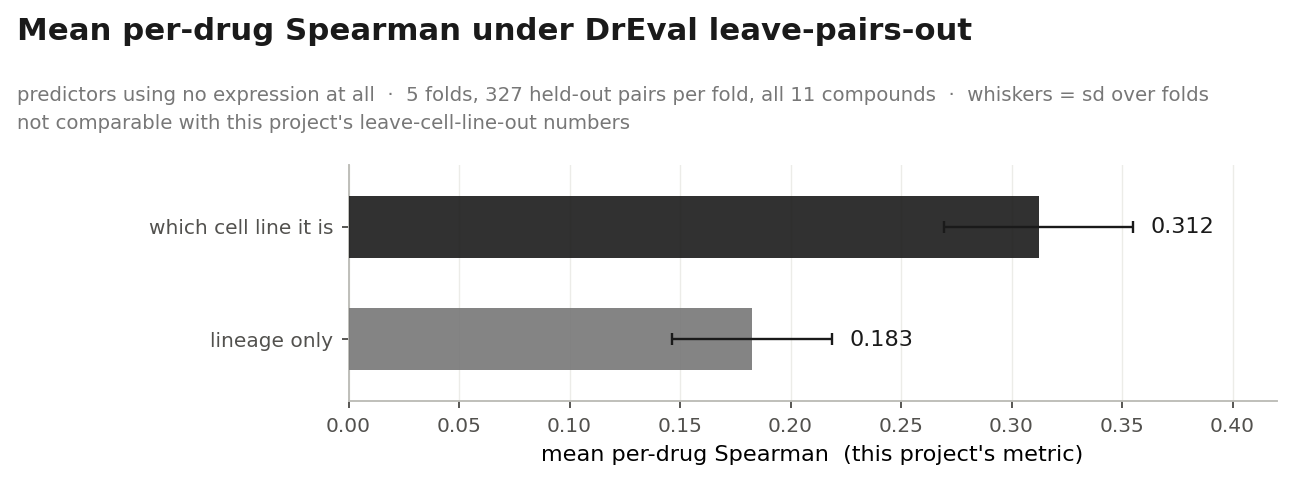
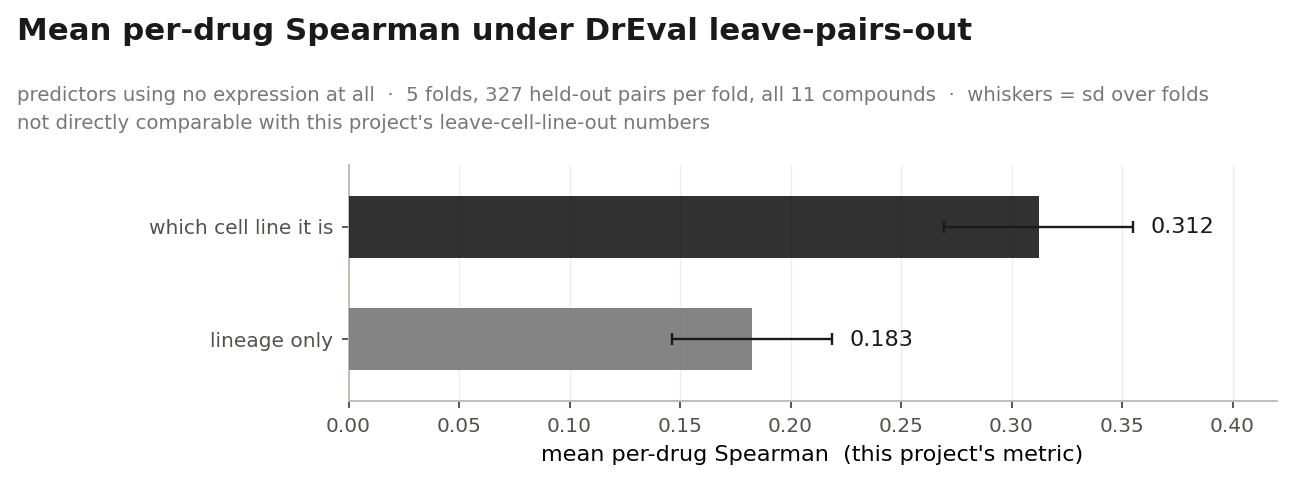
report: restructured discussion

Changed region(s): [[0.0309, 0.2178, 0.5568, 0.2801]]

diff --git a/report/sections/04_results_and_discussion.tex b/report/sections/04_results_and_discussion.tex
@@ -1,8 +1,8 @@
 \chapter{Results and Discussion}
 \label{sec:results}
 
-The results are reported and discussed per research question, each section closing with its
-discussion and the limitations that bound it. Unless stated otherwise, a score is the mean
+The results are reported and discussed per research question. Each section opens with its question,
+reports the results and closes with their discussion. Unless stated otherwise, a score is the mean
 within-compound Spearman correlation of Equation~\ref{eq:metric}, out of fold over held-out cell lines,
 averaged over the \NPanel{} panel compounds and three seeds \cite{spearman1904,dreval}.
 % ; each value is
@@ -13,7 +13,13 @@ averaged over the \NPanel{} panel compounds and three seeds \cite{spearman1904,d
 \label{sec:rd-q1}
 
 The first question was whether drug response can be predicted from single cells when every label is a
-bulk measurement.
+bulk measurement. If the expression of a line's cells carries information about its response, a per-cell
+model trained on these labels should rank held-out lines within each compound better than chance and, if
+single-cell resolution matters, better than a model of the line means. This was tested by scoring the six
+configurations out of fold, against a ridge regression on cell-line means, against DrEval's baselines
+and on the unselected catalogue, and by measuring how much of the score reflects label quality and
+general cell-line fragility.
+
 Figure~\ref{fig:panelresponse} shows the label itself, the refitted AUC of each panel compound across
 the \NLinesCV{} cross-validation lines, before any model is scored. Paclitaxel, gemcitabine, dasatinib, doxorubicin and
 afatinib spread widely below the no-effect level. Erlotinib, sorafenib and etoposide are centred closer to it,
@@ -155,7 +161,7 @@ of compounds.
 % with \code{NullGainMax}, an MSE difference from a different row.)
 
 
-\paragraph{Discussion.} The answer to the first question is a qualified yes: drug response is
+\paragraph{Discussion} The answer to the first question is a qualified yes: drug response is
 predictable from these data, but modestly, unevenly across compounds, and not demonstrably from single
 cells. The score is out of fold over held-out
 lines, stable across seeds, and clears DrEval's naive predictors on a protocol this work did not design
@@ -164,7 +170,7 @@ default per-cell configuration, so
 the single-cell resolution and the network are not what does the work. On the unselected catalogue the signal nearly vanishes, which marks the
 panel's score as a property of eleven well-covered compounds rather than of the screen.
 
-\paragraph{What limits the score.} The spread across compounds is explained on the label side: the share
+The spread across compounds is explained on the label side: the share
 of flat curves predicts the per-compound score without recourse to biology, which agrees with the known
 inconsistency of pharmacogenomic labels \cite{haibekains2013,bayer2023curvecurator}. With one label in nine
 carrying no dose--response and roughly \NLinesCV{} independent lines \cite{lazic2010,dreval}, the binding constraint is the
@@ -174,19 +180,16 @@ literature on its determinant: only one of four ERCC1 isoforms confers repair
 capacity and cisplatin resistance, and no antibody distinguishes them \cite{friboulet_ercc1}, so a
 gene-level measurement cannot see the functional isoform.
 
-\paragraph{How much of the score is compound-specific.} About a fifth of what either representation ranks is
+About a fifth of what either representation ranks is
 general cell-line fragility, in nearly the same proportion for both. Under LPO, where a
 baseline can use a line's average response to the other compounds, that baseline alone reached
 \LpoLineMean{}, above the \SpBest{} of the best configuration here. The two protocols hold out different
 pairs and aggregate them differently, so this is a reference for the size of the channel rather than a
 comparison of models. The LCO protocol used here gives no baseline access to the channel, because a held-out line has no
 estimated effect \cite{dreval}. The reported score is therefore real but partly not compound-specific. What this shared component is
-was not measured. One candidate, offered as a hypothesis, is proliferation rate: the AUC, like the IC50,
-varies with the number of divisions the cells undergo during the assay, and because response is
-normalised to an untreated control that keeps dividing, faster-dividing lines appear more sensitive
-\cite{hafner}. Testing it would need each line's division rate, which this study did not use.
+was not measured.
 
-\paragraph{Relation to previous work.} DrEval found that about half of the tested models did not significantly outperform a
+DrEval found that about half of the tested models did not significantly outperform a
 predictor of mean drug and cell-line effects, and that under leave-cell-line-out evaluation no model
 surpassed a tuned random forest \cite{dreval}. Here the per-cell model scored \DrMlpNorm{} against
 \DrRfPcaNorm{} for DrEval's per-compound random forest \cite{breiman2001} on the same features. That forest
@@ -208,37 +211,33 @@ trained in that weaker setting, which is one possible reason for its modest scor
 not test. The scores themselves are not comparable, because the screen, the response measure, the
 metric and the drugs differ.
 
-\paragraph{LCO only.} Under the protocol used no baseline can exploit the fragility channel, and whether
-the model clears a baseline that can use it would require retraining under an LPO split \cite{dreval}.
+That the score is modest and uneven across compounds is in line with the size of the label set and with
+the known inconsistency of drug-screen labels. Less in line with the premise of this work is that a ridge
+regression on line means scores about as well as the per-cell model, so single-cell resolution shows no
+measured advantage here, and that the signal nearly vanishes on the unselected catalogue.
 
-\paragraph{About \NLinesCV{} independent labels, not \NCellsCV{} cells.} Every uncertainty in this report is
-governed by the number of cell lines (Section~\ref{sec:data}) \cite{lazic2010}, and the work covers
-one database, one response score and \NPanel{} compounds. Cross-database integration, toxicity and
-leave-tissue-out or leave-drug-out evaluation \cite{dreval} are not attempted.
-
-\paragraph{One label in nine comes from a flat curve, and all labels are weighted alike.} The objective
-gives a flat curve the same weight as a well-determined one. Weighting each label by the quality of its
-fit, for example by the $p$-value or $F$-statistic CurveCurator reports per curve
-\cite{bayer2023curvecurator}, alongside the density weight, would let the model discount such labels.
-CurveCurator reports no per-curve variance, so an inverse-variance weight would first need one. This
-has not been done \cite{haibekains2013}.
-
-\paragraph{Untuned training hyperparameters.} The learning rate, gradient-clipping threshold, scheduler
-patience and factor, early-stopping patience and the batch size of 128 cells are conventional defaults,
-neither sourced nor varied. The learning
-rate sets where training peaks and the patience when each run ends, and with about a hundred fitting lines
-per fold the batch size may be large relative to the number of independent labels. They were not
-tuned on the results, so the comparison is fair, applied identically to both arms, but not strong. In
-addition, training on MPS (Table~\ref{tab:training}) is not bit-reproducible, and agreement between
-MPS and CPU embeddings of the same cells was not verified.
+The answer rests on about \NLinesCV{} independent labels (Section~\ref{sec:data}) \cite{lazic2010}, on one
+database, one response score and \NPanel{} compounds. Cross-database integration, toxicity and
+leave-tissue-out or leave-drug-out evaluation \cite{dreval} were not attempted. Three further steps would
+make the answer more conclusive. Retraining under an LPO split would show whether the model clears a
+baseline that can use a line's average response, which no baseline can do under LCO \cite{dreval}.
+Weighting each label by the quality of its fit, for example by the $p$-value or $F$-statistic that
+CurveCurator reports per curve \cite{bayer2023curvecurator}, alongside the density weight, would let the
+model discount the one label in nine that comes from a flat curve. CurveCurator reports no per-curve
+variance, so an inverse-variance weight would first need one \cite{haibekains2013}. Measuring each line's
+division rate would test whether the fragility component reflects proliferation, which the AUC depends on
+through the number of divisions during the assay \cite{hafner}.
 
 \section{scGPT against PCA}
 \label{sec:results-q2}
 \label{sec:rd-q2}
 
 The second question was whether scGPT embeddings are a viable representation for this task, measured
-against PCA at matched width.
-The two arms were compared first on the trained models and then on their inputs.
+against PCA at matched width. The premise of the foundation-model approach is that a pretrained embedding
+is the better input (Section~\ref{sec:bg-foundation}). If it held here, the scGPT arm should score at
+least as high as the PCA arm. This was tested by comparing the two arms on the trained models and on
+their inputs, and by testing five alternative explanations of a difference between them.
+
 The PCA arm scored higher than the scGPT arm in all six configurations (Table~\ref{tab:sweep}), under
 all four scoring conventions --- cell or line level, pooled or per fold
 % (\code{panel\_aggregation\_comparison.csv})
@@ -346,31 +345,35 @@ that scGPT gains nothing from the full transcriptome.
 % (\code{diagnostics/input\_dropout\_test.csv}, \code{input\_dropout\_sweep\_extra.csv})
 
 
-\paragraph{Discussion.} The answer to the second question is that scGPT is viable but falls behind
-PCA here, and the leading account is a mismatch of granularity rather than a deficit of the embedding. The label is
-defined per cell line, so what a model must read is variation between lines. Before any model is
-trained, PCA's between-to-within variance ratio is about a fifth higher than scGPT's, which
-Figure~\ref{fig:umap} illustrates.
-scGPT was used frozen, because about \NLinesCV{} labelled lines are too few to fine-tune it and the
-project's time did not allow it, and it was
-chosen in the expectation that its embedding would carry less cell-line identity, an impression the UMAP
-of the atlas gives (Figure~\ref{fig:umap}) and the variance ratio, computed on the inputs before training,
-confirms. Its authors note that the current pretraining does not
-inherently mitigate batch effects \cite{scgpt}, so this reduction is an observation on this atlas, not a
-design property of the model. On this label it removes exactly the structure the label varies over. Five rival accounts are eliminated: the margin is larger with more labels than with few, which
-contradicts label starvation; the margin stays at the same level when PCA is refitted on a smaller
-atlas, wherever the model scores above zero, which contradicts adaptation to this atlas; capacity lowers both arms; rescaling the input left
-the epoch of best validation error almost unchanged, consistent with the Adam update underlying AdamW,
-whose step magnitudes are invariant to rescaling of the gradient \cite{kingma2015adam}, although
-rescaling the input is not the same as rescaling the gradient; and PCA stays ahead once fragility is removed. Eliminating rivals does not
-establish the granularity account, whose positive evidence is one variance ratio, whose difference between the arms survives resampling
-the lines, illustrated by one figure. The
-margins are conservative with respect to input dropout \cite{srivastava2014}, since the shared rate costs the PCA arm and not
-the scGPT arm. This is a statement about evaluation design --- a representation
-that carries less cell-line identity on this atlas, scored on a label that is defined per cell line ---
-not about scGPT in general.
+\paragraph{Discussion} The answer to the second question is that scGPT is viable but falls behind
+PCA here, and the leading account is a mismatch of granularity rather than a deficit of the embedding.
+The label is defined per cell line, so what a model must read is variation between lines. Before any
+model is trained, PCA's between-to-within variance ratio is about a fifth higher than scGPT's, which
+Figure~\ref{fig:umap} illustrates. Its authors note that the current pretraining does not inherently
+mitigate batch effects \cite{scgpt}, so this reduction is an observation on this atlas, not a design
+property of the model. On this label it removes exactly the structure the label varies over.
 
-\paragraph{Relation to previous work.} The ordering agrees with the zero-shot evaluation of
+Five rival accounts do not explain the gap. The margin is larger with more labels than with few, which
+contradicts label starvation. It stays at the same level when PCA is refitted on a smaller atlas,
+wherever the model scores above zero, which contradicts adaptation to this atlas. Capacity lowers both
+arms. Rescaling the input left the epoch of best validation error almost unchanged, consistent with the
+Adam update underlying AdamW, whose step magnitudes are invariant to rescaling of the gradient
+\cite{kingma2015adam}, although rescaling the input is not the same as rescaling the gradient. PCA also
+stays ahead once fragility is removed. Eliminating rivals does not establish the granularity account,
+whose positive evidence is one variance ratio, robust to resampling the lines and illustrated by one
+figure. The margins are conservative with respect to input dropout \cite{srivastava2014}, since the
+shared rate costs the PCA arm and not the scGPT arm.
+
+PCA's lead does not come from seeing more of the data than scGPT. Both arms read the same \NHvg{} genes,
+selected on expression alone and without labels, so the lines without labels could inform the selection
+without leaking a response. Selecting genes per fold would have produced five gene sets, so comparisons
+across folds, representations and the gene-set sweep would differ in genes as well as cells. Within each
+fold, the PCA standardisation and rotation were fitted only on the cells the model itself is fitted on,
+so no held-out line shaped the PCA features it was scored on. Fitting them on the whole training side
+would have given PCA about \CfgExtraPct\,\% more cells than the model it feeds. The two asymmetries that
+remain, the vocabulary and the fitting on this atlas, are discussed below.
+
+The ordering agrees with the zero-shot evaluation of
 Kedzierska et al., in which frozen scGPT and Geneformer embeddings separated known cell types worse
 than a selection of highly variable genes (Section~\ref{sec:bg-foundation}) \cite{kedzierska2025}. Here, too, the
 frozen scGPT embedding fell behind a reduction of highly variable genes, on a different task and at a
@@ -382,29 +385,36 @@ reported results on cell type annotation, batch integration and perturbation pre
 after fine-tuning \cite{scgpt,theodoris2023}. This work therefore tests the zero-shot use of the
 embedding, not the use its authors intended, which is the limitation stated below.
 
-\paragraph{How much the representations were allowed to see.} The HVG selection, the per-gene standardisation and the PCA rotation were decided together because they
-pose one question: how much a fit may see \cite{dreval}. Selecting genes per fold would have produced five gene sets, so comparisons across folds,
-representations and the gene-set sweep would differ in genes as well as cells. The lines without
-labels were kept in the gene selection, since they carry no label to leak, improve the variance
-estimates, and both arms receive the identical set. The per-fold standardisation and rotation were the
-one place the arms differ in what is fitted on the data, so their fitting set was restricted to the cells the model
-itself is fitted on: the whole training side would have given PCA about \CfgExtraPct\,\% more cells than the
-model it feeds, at a cost of about \CfgHoldoutPct\,\% of the cells available to the decomposition. Storing five
-fold-specific matrices was rejected, at about a gigabyte and because it would tie the fold design to the
-preprocessing. Two asymmetries
-remained: PCA decomposes every selected gene while scGPT reads only those in its vocabulary, and only
-PCA is fitted on this atlas.
+scGPT was chosen in the expectation that its embedding would carry less cell-line identity than PCA, an
+impression the UMAP of the atlas gives (Figure~\ref{fig:umap}), and the variance ratio confirms it. What
+was not expected is that this property works against it here: on a label defined per cell line, the
+identity it removes is the structure the label varies over. The premise that a pretrained embedding is
+the better input was therefore not borne out for this task. This is a statement about evaluation design
+--- a representation that carries less cell-line identity on this atlas, scored on a label defined per
+cell line --- not about scGPT in general.
 
-\paragraph{Only one representation is fitted on this atlas.} PCA is fitted on these cells and scGPT is
-frozen, so the comparison is not like-for-like with respect to adaptation. The atlas-size test shows
-that PCA's lead does not depend on how many cells it is fitted on, but the direct test of the
-granularity account, fine-tuning scGPT on the task, has not been run \cite{scgpt}.
+scGPT was used frozen, because about \NLinesCV{} labelled lines are too few to fine-tune it and the
+project's time did not allow it, so the direct test of the granularity account, fine-tuning scGPT on the
+task, has not been run \cite{scgpt}. Only PCA is fitted on this atlas, so the comparison is not
+like-for-like with respect to adaptation, although the atlas-size test shows that PCA's lead does not
+depend on how many cells it is fitted on. PCA also decomposes every selected gene, while scGPT reads only
+those in its vocabulary. The learning rate, gradient-clipping threshold, scheduler settings,
+early-stopping patience and batch size of 128 cells are conventional defaults, neither sourced nor
+varied, and with about a hundred fitting lines per fold the batch size may be large relative to the
+number of independent labels. They were not tuned on the results, so the comparison is fair, applied
+identically to both arms, but not strong. Training on MPS (Table~\ref{tab:training}) is not
+bit-reproducible, and agreement between MPS and CPU embeddings of the same cells was not verified.
 
 \section{Heterogeneity learned by a single-cell model}
 \label{sec:results-q3}
 \label{sec:rd-q3}
 
 The third question was whether a model trained on single cells learns cellular heterogeneity implicitly.
+If it does, a model freed from the per-cell objective's penalty on spread within a line should give a
+line's cells different predictions, and these differences should be reproducible across seeds, not
+explained by sequencing quality or the cell cycle, and able to separate cells known to differ in response.
+This was tested with the MIL model and the five-stage evaluation of Section~\ref{sec:mil}.
+
 The MIL model \cite{dietterich1997,ilse2018} was run over three seeds on both representations and
 evaluated by the five stages of Section~\ref{sec:mil}. The input ceiling was computed per line on the
 \NLinesCV{} lines. The spread, reproducibility and confound stages read only predictions, so they were
@@ -436,7 +446,10 @@ detected genes, mitochondrial fraction and the two cell-cycle scores. The median
 covariates was \QConfRawPca{} for PCA and \QConfRawScgpt{} for scGPT, and the adjusted $R^2$, on which the
 veto is read, was \QConfPca{} and \QConfScgpt{}. Against the squared cross-seed correlation of
 \QReprPca{} and \QReprScgpt{}, that is \QBarPca\,\% and \QBarScgpt\,\% of the veto bar, so the veto did not
-fire for either representation.
+fire for either representation. Within each line, the scGPT arm's predictions followed the
+proteasomal-degradation program most closely, weakly and negatively (median within-line Spearman
+$\rho = \QProgDegraScgpt$, and $\QProgDegraScgptPartial$ with mitochondrial fraction controlled), while
+the program score itself barely tracked sequencing depth within a line ($\rho = \QProgDegraDepth$).
 % (\code{mil/stage6\_confounds.csv})
 
 Figure~\ref{fig:q2instrument} shows the positive control, to test whether the model can separate
@@ -471,26 +484,20 @@ in the low-spread half and \MilGapHighPca{} in the high-spread half for PCA, and
 % (\code{panel/panel\_metrics.csv}, \code{diagnostics/mil\_by\_within\_line\_spread.csv},
 % \code{scripts/evaluation/mil\_within\_line\_test.py})
 
-\paragraph{Discussion.} The third question remains open. The MIL model
-separates a line's cells reproducibly and not as a sequencing artefact, but it does not reliably
-separate two lines known to differ slightly: the median AUROC of its positive control is barely above
-chance, so the evaluation cannot carry a negative result and makes the positive one weak. The PCA arm
-clears the confound veto at \QBarPca\,\% of the bar, so its within-line signal is not confound-dominated
-rather than confound-free. Whether any of the variation is drug-response heterogeneity cannot be decided
-here, because no per-cell response was measured. The closest
-measurement, the source study's drug screen of sorted subpopulations, found that co-existing
-subpopulations differ in drug sensitivity, but it covers two head and neck cancer lines and two
-subpopulations, not the cells of every line \cite{scp542}.
-What the reproducible variation follows was described against the heterogeneity programs annotated
-for this atlas, as a description that gates nothing \cite{scp542}. In the scGPT arm it followed the
-proteasomal-degradation program most closely, weakly and negatively (median within-line Spearman
-$\rho = \QProgDegraScgpt$, and $\QProgDegraScgptPartial$ with mitochondrial fraction controlled), while
-the program score itself barely tracked sequencing depth within a line ($\rho = \QProgDegraDepth$).
-This bears neither on predictive performance, because the scores are computed on line means, nor on
-drug response, because the positive control did not show that the model detects known differences in
-response.
+\paragraph{Discussion} The third question remains open. The MIL model separates a line's cells
+reproducibly and not as a sequencing artefact, but it does not reliably separate two lines known to
+differ slightly: the median AUROC of its positive control is barely above chance, so the evaluation
+cannot carry a negative result and makes the positive one weak. The PCA arm clears the confound veto at
+\QBarPca\,\% of the bar, so its within-line signal is not confound-dominated rather than confound-free.
+Whether any of the variation is drug-response heterogeneity cannot be decided here, because no per-cell
+response was measured.
 
-\paragraph{Relation to previous work.} The two prior methods closest to this work also evaluated
+The association with the proteasomal-degradation program describes what the reproducible variation
+follows, but it bears neither on predictive performance, because the scores are computed on line means,
+nor on drug response, because the positive control did not show that the model detects known
+differences in response.
+
+The two prior methods closest to this work also evaluated
 per-cell predictions through labels or outcomes defined for groups of cells. scDEAL scored its
 predictions against binary labels that, in most of the original studies, were assigned to whole groups
 of cells by their treatment condition \cite{scdeal}. PERCEPTION, on the same atlas, scored a line by the
@@ -500,13 +507,18 @@ of cells. Its pairs of lines were taken from the lowest quartile of each compoun
 differences (Section~\ref{sec:mil}), so it tests the smallest differences in response. Whether the
 model detects larger differences was not tested.
 
-\paragraph{Why the bag objective narrows the margin between the arms is unexplained.} One account was that a per-cell
-objective treats within-line variation as noise, that scGPT carries more of it, and that pooling into a
-bag removes exactly that. It predicted a larger gain where the within-line spread is larger. The gain
-was smaller in the high-spread half for both arms, so the account is refuted, and why the bag objective
-raises the scGPT arm and lowers the PCA arm remains open.
+That the MIL model spreads its predictions more than the per-cell model was expected, since it removes
+the term that penalises the spread (Equation~\ref{eq:mil-decomposition}). Less expected was that the bag
+objective lowered the PCA arm and raised the scGPT arm. One account was that a per-cell objective treats
+within-line variation as noise, that scGPT carries more of it, and that pooling into a bag removes
+exactly that. It predicted a larger gain where the within-line spread is larger, but the gain was
+smaller in the high-spread half for both arms, so the account is refuted, and why the bag objective moves
+the arms in opposite directions remains open.
 
-\paragraph{The positive control's median is barely above chance.} A negative answer to the third question
-would be uninformative, and little exists to validate a positive one: the only response measurement
-below the line level for this atlas is the sorted-subpopulation screen above \cite{scp542}, and post-treatment single-cell profiles exist for other lines
-and compounds \cite{srivatsan2020,tahoe100m} but carry no per-cell response label.
+A negative answer to the third question would be uninformative, and little exists to validate a positive
+one. The only response measurement below the line level for this atlas is the source study's screen of
+sorted subpopulations, which found that co-existing subpopulations differ in drug sensitivity but covers
+two head and neck cancer lines \cite{scp542}. Post-treatment single-cell profiles exist for other lines
+and compounds \cite{srivatsan2020,tahoe100m} but carry no per-cell response label. A conclusive answer
+would need per-cell or per-subpopulation response measurements on the lines modelled, and a positive
+control over larger differences in response than the lowest quartile tested here.

diff --git a/docs/make_figures.py b/docs/make_figures.py
@@ -1679,7 +1679,7 @@ def build_q2_instrument():
     fig, ax = plt.subplots(figsize=(7.2, 3.8))
     # Titled by what the panel measures, not by its stage number: the numbering is `4b`'s internal
     # bookkeeping and carries nothing for a reader of the figure.
-    ax.set_title("can the method see a gap known to be there?", fontsize=12, fontweight="bold",
+    ax.set_title("Within-bag AUROC of the positive control", fontsize=12, fontweight="bold",
                  color=INK, loc="left", pad=10)
 
     for rep, c, name in reps:
@@ -2057,7 +2057,7 @@ def build_lpo_bias():
     fig.text(0.02, 0.88,
              f"predictors using no expression at all  ·  5 folds, {int(g['n'].iloc[0] / 5):,} "
              f"held-out pairs per fold, all {n_panel} compounds  ·  whiskers = sd over folds\n"
-             "not comparable with this project's leave-cell-line-out numbers",
+             "not directly comparable with this project's leave-cell-line-out numbers",
              ha="left", va="top", fontsize=8.4, color=GREY, linespacing=1.6)
 
     for i, (key, label, colour) in enumerate(BARS):
